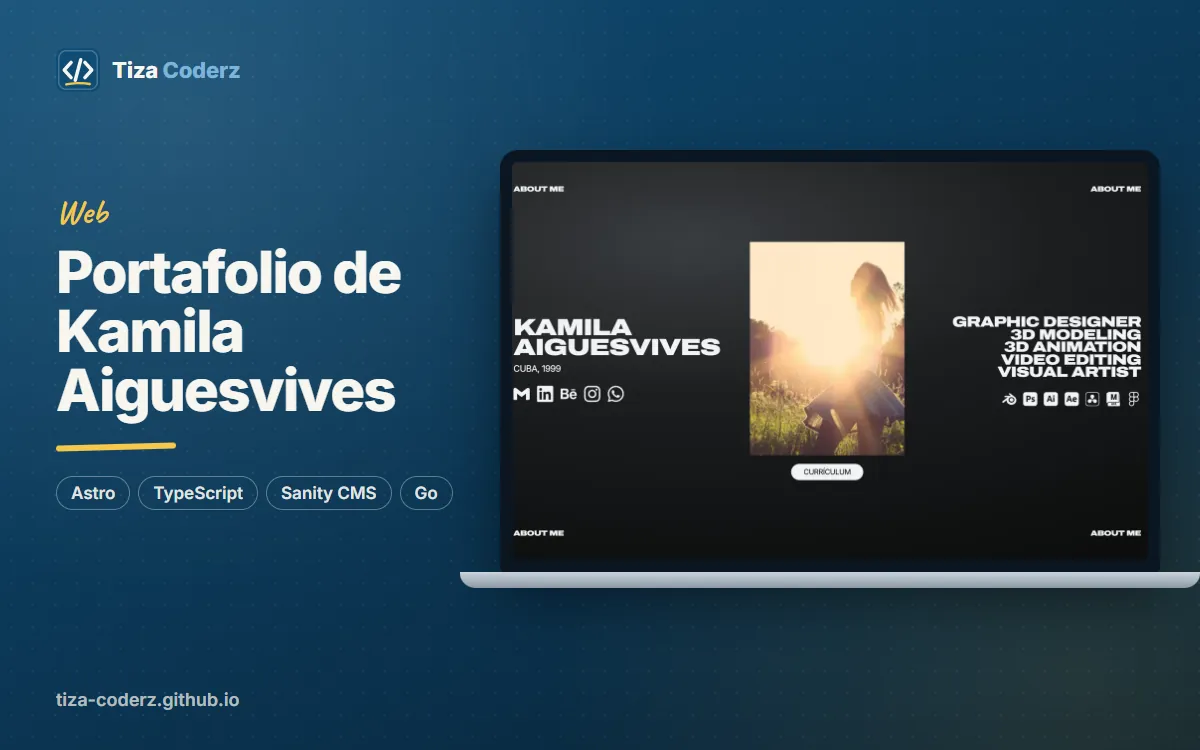
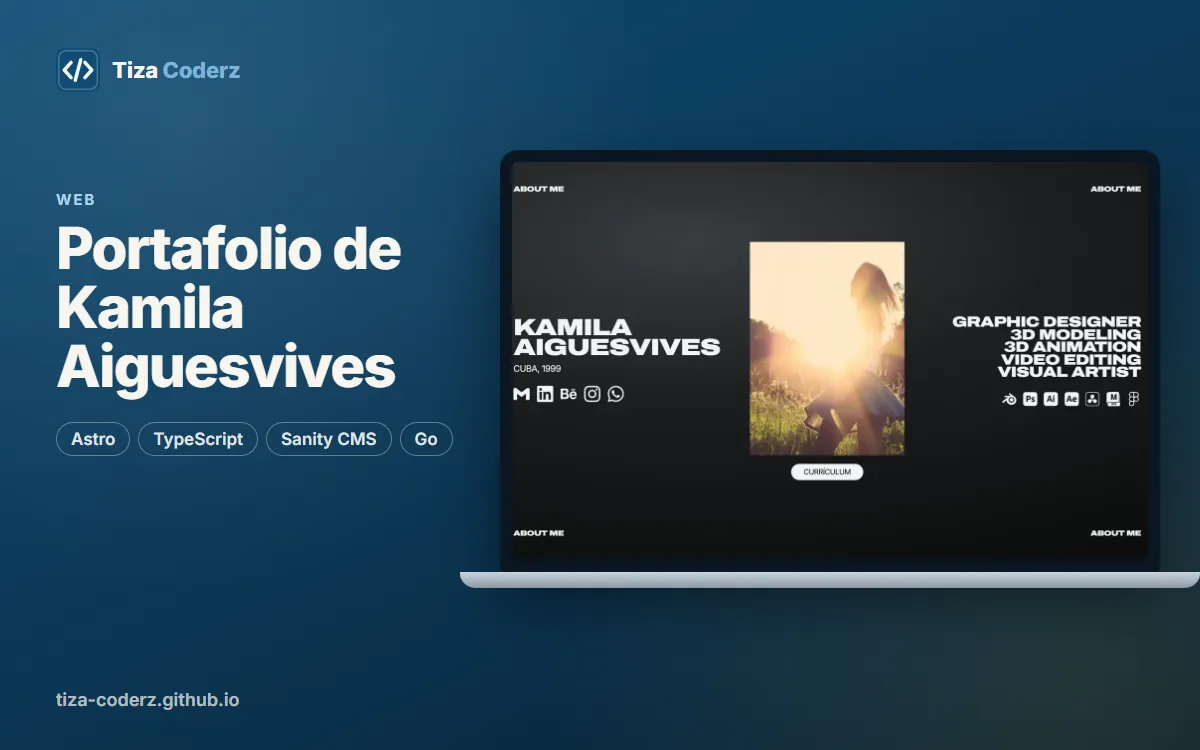
feat(marketing): regenera portadas e imágenes Open Graph con el nuevo estilo

Changed region(s): [[0.0308, 0.2453, 0.37, 0.6133], [0.0617, 0.644, 0.37, 0.6747]]

diff --git a/scripts/generate-marketing.ts b/scripts/generate-marketing.ts
@@ -15,7 +15,6 @@ import { readFile, mkdir } from "node:fs/promises";
 import path from "node:path";
 import { chromium, type Browser } from "playwright-core";
 import sharp from "sharp";
-import { company } from "../data/company";
 import { getAllProjects, type Project } from "../src/lib/projects";
 
 const ROOT = process.cwd();
@@ -35,7 +34,7 @@ async function dataUri(file: string): Promise<string> {
 
 const publicFile = (src: string) => path.join(PUBLIC, src);
 
-const logoMark = `<svg viewBox="0 0 64 64" width="44" height="44"><rect width="64" height="64" rx="14" fill="#0f4c75"/><rect x="4" y="4" width="56" height="56" rx="11" fill="none" stroke="#f8f6f0" stroke-opacity=".25" stroke-width="2"/><g fill="none" stroke="#f8f6f0" stroke-width="5" stroke-linecap="round" stroke-linejoin="round"><path d="M22 21 12 32l10 11"/><path d="M42 21l10 11-10 11"/><path d="M36 17 28 47"/></g><path d="M15 53c8-2.2 25-2.6 34-.6" fill="none" stroke="#f5c84c" stroke-width="3.5" stroke-linecap="round"/></svg>`;
+const logoMark = `<svg viewBox="0 0 64 64" width="44" height="44"><rect width="64" height="64" rx="14" fill="#0f4c75"/><rect x="4" y="4" width="56" height="56" rx="11" fill="none" stroke="#f8f6f0" stroke-opacity=".25" stroke-width="2"/><g fill="none" stroke="#f8f6f0" stroke-width="5" stroke-linecap="round" stroke-linejoin="round"><path d="M22 21 12 32l10 11"/><path d="M42 21l10 11-10 11"/><path d="M36 17 28 47"/></g></svg>`;
 
 const baseCss = `
   *{box-sizing:border-box;margin:0;padding:0}
@@ -44,11 +43,9 @@ const baseCss = `
       radial-gradient(circle at 15% 15%, rgba(255,255,255,.10), transparent 40%),
       radial-gradient(circle at 90% 90%, rgba(245,200,76,.12), transparent 42%),
       linear-gradient(155deg,#0f4c75 0%,#0a2f49 70%,#061d2e 100%);}
-  body::before{content:"";position:absolute;inset:0;opacity:.07;
-    background-image:radial-gradient(#fff 1px,transparent 1.2px);background-size:22px 22px}
   .brand{position:absolute;left:56px;top:48px;display:flex;align-items:center;gap:12px;font-weight:800;font-size:22px;letter-spacing:-.01em}
   .brand b{color:#7db4d8}
-  .chalk{font-family:Caveat,cursive;color:#f5c84c}
+  .kicker{font-size:15px;font-weight:700;letter-spacing:.12em;text-transform:uppercase;color:#afd2ea}
   .chip{display:inline-block;border:1.5px solid rgba(248,246,240,.35);border-radius:999px;padding:6px 14px;font-size:17px;font-weight:600;color:rgba(248,246,240,.9);margin:0 8px 8px 0}
   .phone{position:absolute;border-radius:38px;background:#0b1622;padding:9px;box-shadow:0 30px 60px rgba(0,0,0,.45),0 0 0 1.5px rgba(255,255,255,.12) inset}
   .phone img{display:block;width:100%;height:100%;object-fit:cover;object-position:top;border-radius:30px}
@@ -58,7 +55,7 @@ const baseCss = `
   .laptop .base{height:16px;margin:0 -40px;background:linear-gradient(#c9d3dc,#8c99a5);border-radius:0 0 18px 18px}
 `;
 
-const fontsLink = `<link rel="preconnect" href="https://fonts.googleapis.com"><link href="https://fonts.googleapis.com/css2?family=Caveat:wght@600;700&family=Inter:wght@500;600;700;800&display=block" rel="stylesheet">`;
+const fontsLink = `<link rel="preconnect" href="https://fonts.googleapis.com"><link href="https://fonts.googleapis.com/css2?family=Inter:wght@500;600;700;800&display=block" rel="stylesheet">`;
 
 function page(width: number, height: number, body: string, extraCss = "") {
   return `<!doctype html><html><head><meta charset="utf-8">${fontsLink}<style>${baseCss}body{width:${width}px;height:${height}px;position:relative}${extraCss}</style></head><body>${body}</body></html>`;
@@ -186,9 +183,9 @@ async function projectImages(browser: Browser, project: Project) {
     const body = `
       <div class="brand">${logoMark}<span>Tiza <b>Coderz</b></span></div>
       <div style="position:absolute;left:56px;top:${190 * s}px;width:${textWidth}px">
-        <div class="chalk" style="font-size:${34 * s}px">${project.platforms.map((p) => ({ web: "Web", android: "Android", ios: "iOS", pwa: "PWA", telegram: "Telegram" })[p]).join(" · ")}</div>
+        <div class="kicker" style="font-size:${15 * s}px">${project.platforms.map((p) => ({ web: "Web", android: "Android", ios: "iOS", pwa: "PWA", telegram: "Telegram" })[p]).join(" · ")}</div>
         <h1 style="font-size:${(project.title.length > 16 ? 58 : 76) * s}px;line-height:1.02;font-weight:800;letter-spacing:-.03em;margin-top:${10 * s}px">${project.title}</h1>
-        <div style="width:120px;height:6px;border-radius:6px;background:#f5c84c;margin:${24 * s}px 0 ${26 * s}px;transform:rotate(-1.5deg)"></div>
+        <div style="height:${26 * s}px"></div>
         <div>${project.stack
           .slice(0, 4)
           .map((t) => `<span class="chip" style="font-size:${17 * s}px">${t}</span>`)
@@ -213,14 +210,14 @@ async function projectImages(browser: Browser, project: Project) {
 
 const siteCopy = {
   es: {
-    kicker: "Estudio de diseño y desarrollo · La Habana",
+    kicker: "Diseño y desarrollo · La Habana",
     title: "Diseño, apps, webs y sistemas para mipymes cubanas",
-    sub: "Diseño y desarrollo · Funciona aunque la conexión sea mala",
+    sub: "Software a la medida · Funciona aunque la conexión sea mala",
   },
   en: {
-    kicker: "Design & software studio · Havana, Cuba",
+    kicker: "Design & development · Havana, Cuba",
     title: "Design, apps, websites and systems for Cuban small businesses",
-    sub: "Design and development · Built for slow connections",
+    sub: "Custom software · Built for slow connections",
   },
 } as const;
 
@@ -237,11 +234,10 @@ async function siteImages(browser: Browser) {
     const body = `
       <div class="brand">${logoMark}<span>Tiza <b>Coderz</b></span></div>
       <div style="position:absolute;left:56px;top:150px;width:560px">
-        <div class="chalk" style="font-size:30px">${t.kicker}</div>
+        <div class="kicker">${t.kicker}</div>
         <h1 style="font-size:54px;line-height:1.05;font-weight:800;letter-spacing:-.03em;margin-top:10px">${t.title}</h1>
-        <div style="width:120px;height:6px;border-radius:6px;background:#f5c84c;margin:22px 0;transform:rotate(-1.5deg)"></div>
+        <div style="height:22px"></div>
         <p style="font-size:21px;color:rgba(248,246,240,.82);font-weight:500">${t.sub}</p>
-        <p class="chalk" style="font-size:32px;margin-top:26px">${company.slogan[locale]}</p>
       </div>
       ${phones
         .map(
